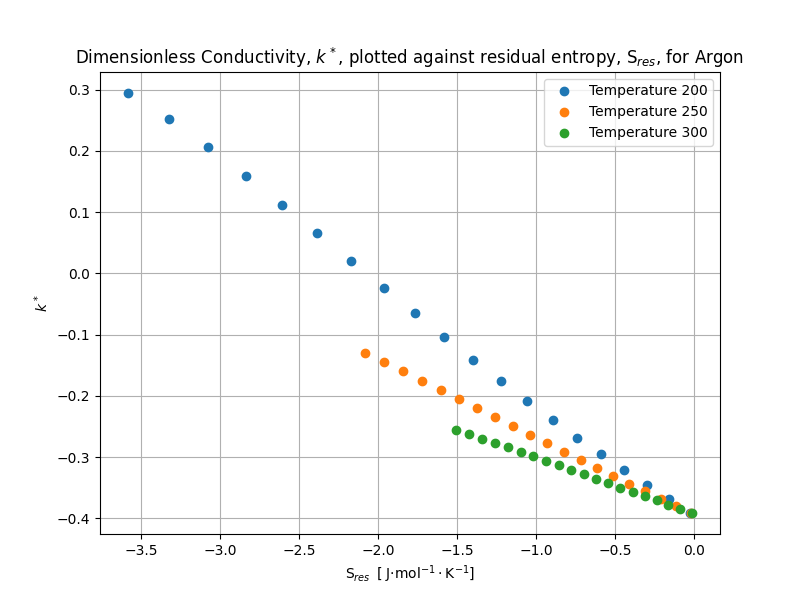
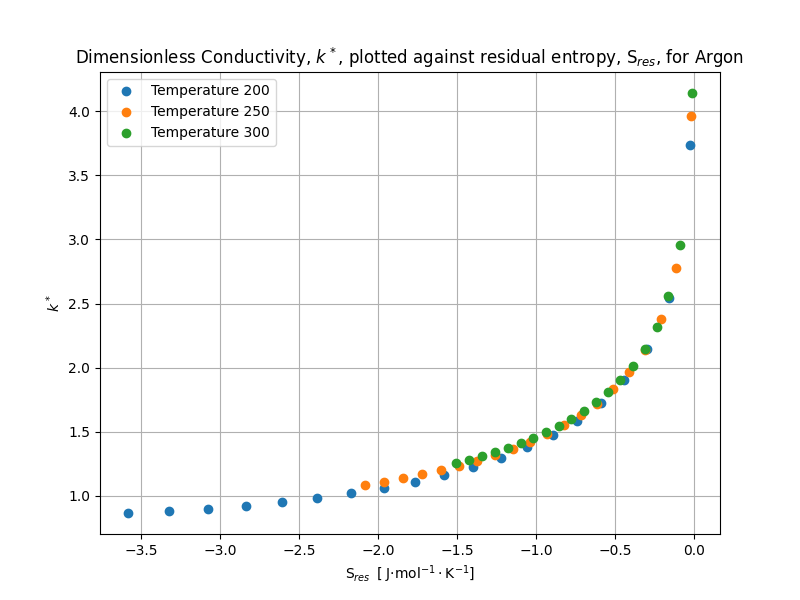
Used the correct function for the dimensionless conductivity, now it plots correctly

diff --git a/Functions.py b/Functions.py
@@ -10,14 +10,17 @@ def calculate_mean_percentage_difference(data_calculated, data_exp):
 def dim_less_visc(T, visc_data):
     return Initialization.np.log((Initialization.np.array(Initialization.density[T])*Initialization.Avogadro)**(-2/3) * (Initialization.kb * T* Initialization.m_Ar)**(-0.5) * Initialization.np.array(visc_data))
 
-# dimensionless conductivity, the Prandtl number: (heat capacity * viscosity) / thermal conductivity
+'''# dimensionless conductivity, the Prandtl number: (heat capacity * viscosity) / thermal conductivity
 # cp_dict [J/(mol*K)]
 # visc_data [Pa*s] -> [kg/(m*s)]
 # cond_data [W/m*K] -> [J/(s*m*K)]
 def dim_less_cond(T, visc_data, cond_data):
     dim_less_1 = ((Initialization.np.array(Initialization.cp_dict[T])*Initialization.np.array(visc_data)) / (Initialization.np.array(cond_data))) # kg/mol
     dim_less_2 = dim_less_1 / Initialization.molar_mass_argon # dimless
-    return Initialization.np.log(dim_less_2)
+    return Initialization.np.log(dim_less_2)'''
+
+def dim_less_cond(T, cond_data):
+    return Initialization.np.log((Initialization.np.array(Initialization.density[T])*Initialization.Avogadro)**(-2/3) * ((Initialization.kb * T)/Initialization.m_Ar)**(-0.5) * Initialization.np.array(cond_data)/Initialization.kb)
 
 # Plotting function for experimental vs calculated
 def plot_and_annotate(pressure, data_calculated, data_exp, property_name, mean_diff_calculated, temp, linestyle_calculated='-', linestyle_exp='--', marker_calculated='o', marker_exp='s', y_offset=0):
@@ -54,7 +57,7 @@ def residual_plot(property_string):
         if property_string == "Viscosity":
             plt.plot(Initialization.entropy[T], dim_less_visc(T, Initialization.visc_data[T]), 'o', label=label)
         elif property_string == "Conductivity":
-            plt.plot(Initialization.entropy[T], dim_less_cond(T, Initialization.visc_data[T], Initialization.cond_data[T]), 'o', label=label)
+            plt.plot(Initialization.entropy[T], dim_less_cond(T, Initialization.cond_data[T]), 'o', label=label)
         else:
             print("Invalid property string! \n Set property string to either Viscosity or Conductivity")
             return None
